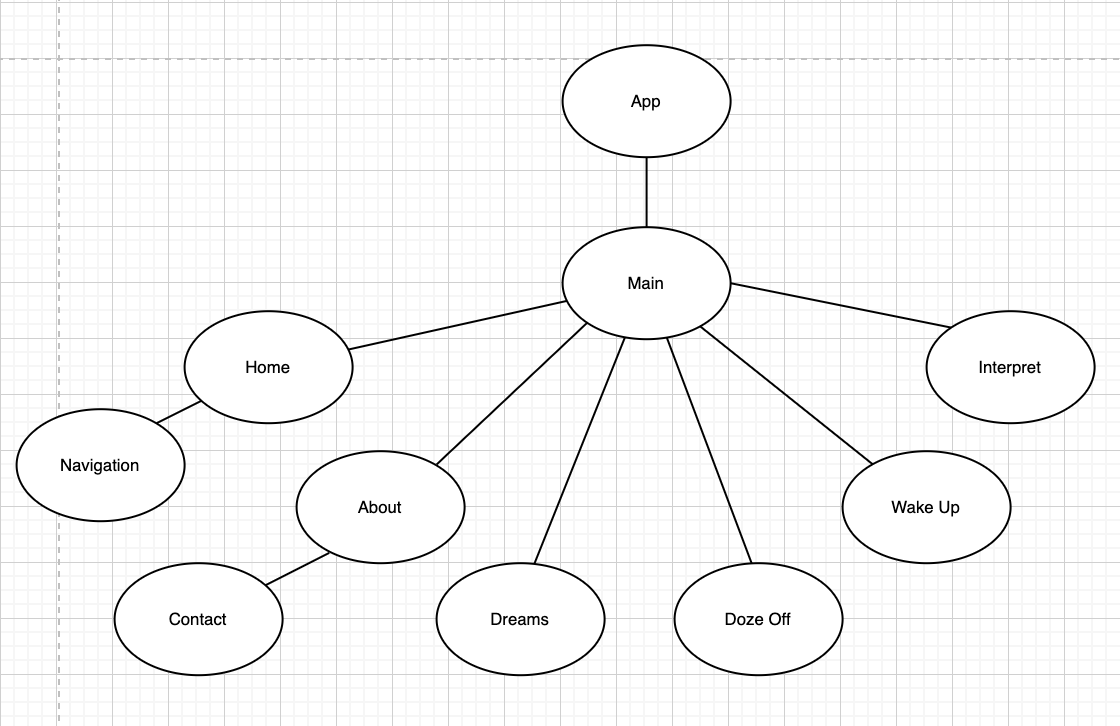
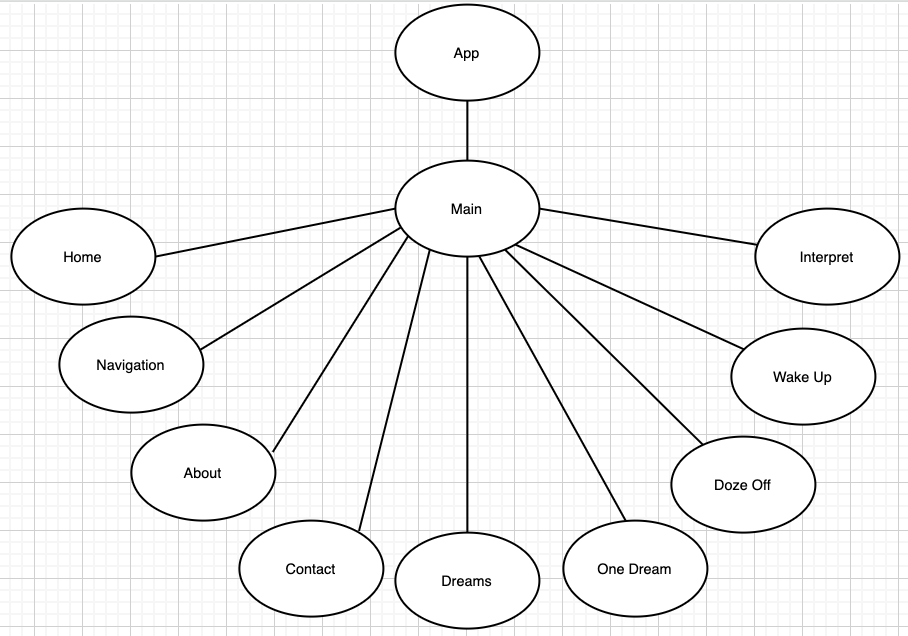
Added updated component tree, ERD Model, and readMe edits

diff --git a/README.md b/README.md
@@ -1,13 +1,9 @@
-# DreamState
-
-<!-- ![DreamState Logo](./Assets/DreamStateLogo.png) -->
+![DreamState Logo](./DreamStateHeader.png)
 
 
-**DREAMSTATE** was made to support the African American communities around the world to give them an outlet to share their stories and experiences of their every day lives and struggles.  These stories of theirs are their personal experiences and more likely than not, to the outsider, seems like a dream.  
+**DREAMSTATE** was made to support the African American communities around the world to give them an outlet to share their stories and experiences of their every day lives and struggles.  These stories of theirs are their personal experiences and realities and more likely than not to the outsider, seems like a dream.   
 
 DREAMSTATE is a place where non-POC can educate themselves, start being active in their communities to become better allies, support eachother, attend gatherings, spread awareness, etc.  
-
-The only way for a better future is through compassion, unity, and support of eachother regardless of color, race, status, sexual orientation, disabilities and religious beliefs.  
 
 The more people see, hear and listen to eachother, this nightmare of a reality can end.
 
@@ -52,8 +48,10 @@ Refer to Wireframes Folder in this repository for a detailed view of each page's
         |__ Wireframes.jsx
       |__ Components/
         |__ Home.jsx
-       |__ About.jsx
+        |__ About.jsx
         |__ Navigation.jsx
+        |__ OneDream.jsx
+        |__ Contact.jsx
         |__ Logo.jsx
         |__ Dreams.jsx
         |__ DozeOff.jsx
@@ -69,10 +67,12 @@ About | Functional | No | No | Contains description of app. |
 Navigation | Functional | No | No | Contains Logo & Links: About, Dreams, Doze Off, Wake Up and Interpret. |
 Logo | Functional | No | No | Neumorphism Text Effect of DreamState. |
 Dreams | Class | No | Yes | Contains cards of specific dreams. |
-Doze Off | Class | Yes | No | Contains form prompting guest to submit a dream for review. |
+One Dream | Class | Yes | No | Page rendering 1 specific dream that guest clicks on. |
+Contact | Class | Yes | No | Contains form prompting guest to submit a dream for review. |
+Doze Off | Class | Yes | No | Contains form for guest to submit questions, comments, concerns. |
 Contact | Class | Yes | No | Contains contact form. |
 Wake Up| Functional | No | No | Contains links to organizations and official donations sites, etc.  |
-Interpret | Functional | No | No | Contains links, resources, black-owned companies, best-seller books and educational materials to bring more awareness to user. |
+Interpret | Functional | No | No | Contains links, resources, black-owned companies, best-seller books and educational materials to bring more awareness to guest. |
 
 
 **Component Tree**
@@ -80,7 +80,7 @@ Interpret | Functional | No | No | Contains links, resources, black-owned compan
 
 **ERD Model**   
 ![ERD Model Photo](./ERDModel.png)   
-To prevent spam and user harassment as well as protect user anonminity, all stories will be directed to a site-specific account where they will be filtered out.  Stories will be posted, and spam won't be clogging the purpose of the site.
+To prevent spam and user harassment as well as protect user anonminity, all stories will be directed to a site-specific account where they will be filtered out.  Stories will be posted on a rolling-weekly basis, and spam won't be clogging the purpose of the site.
 
 **Dependancies**
 | Library | Purpose |
